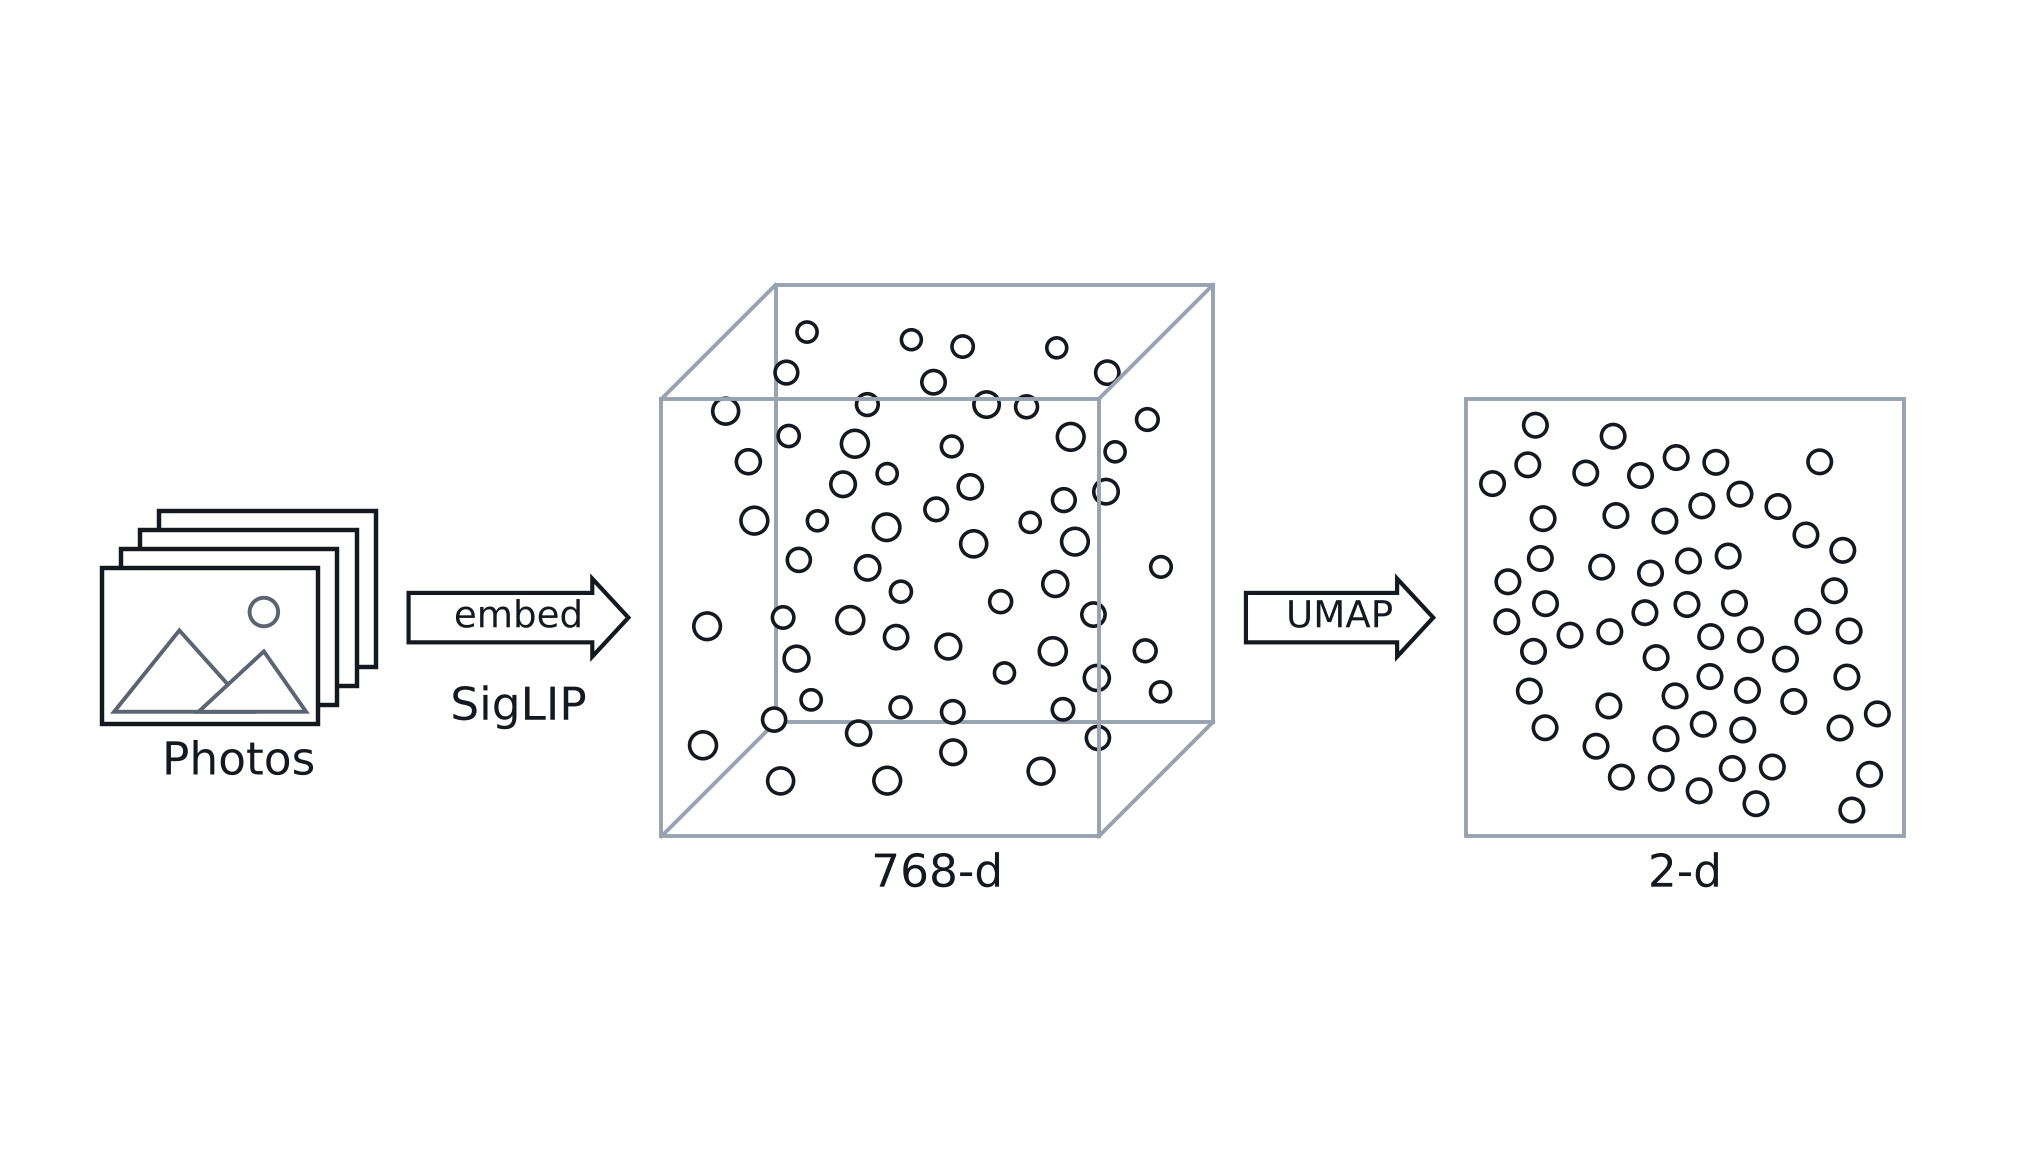
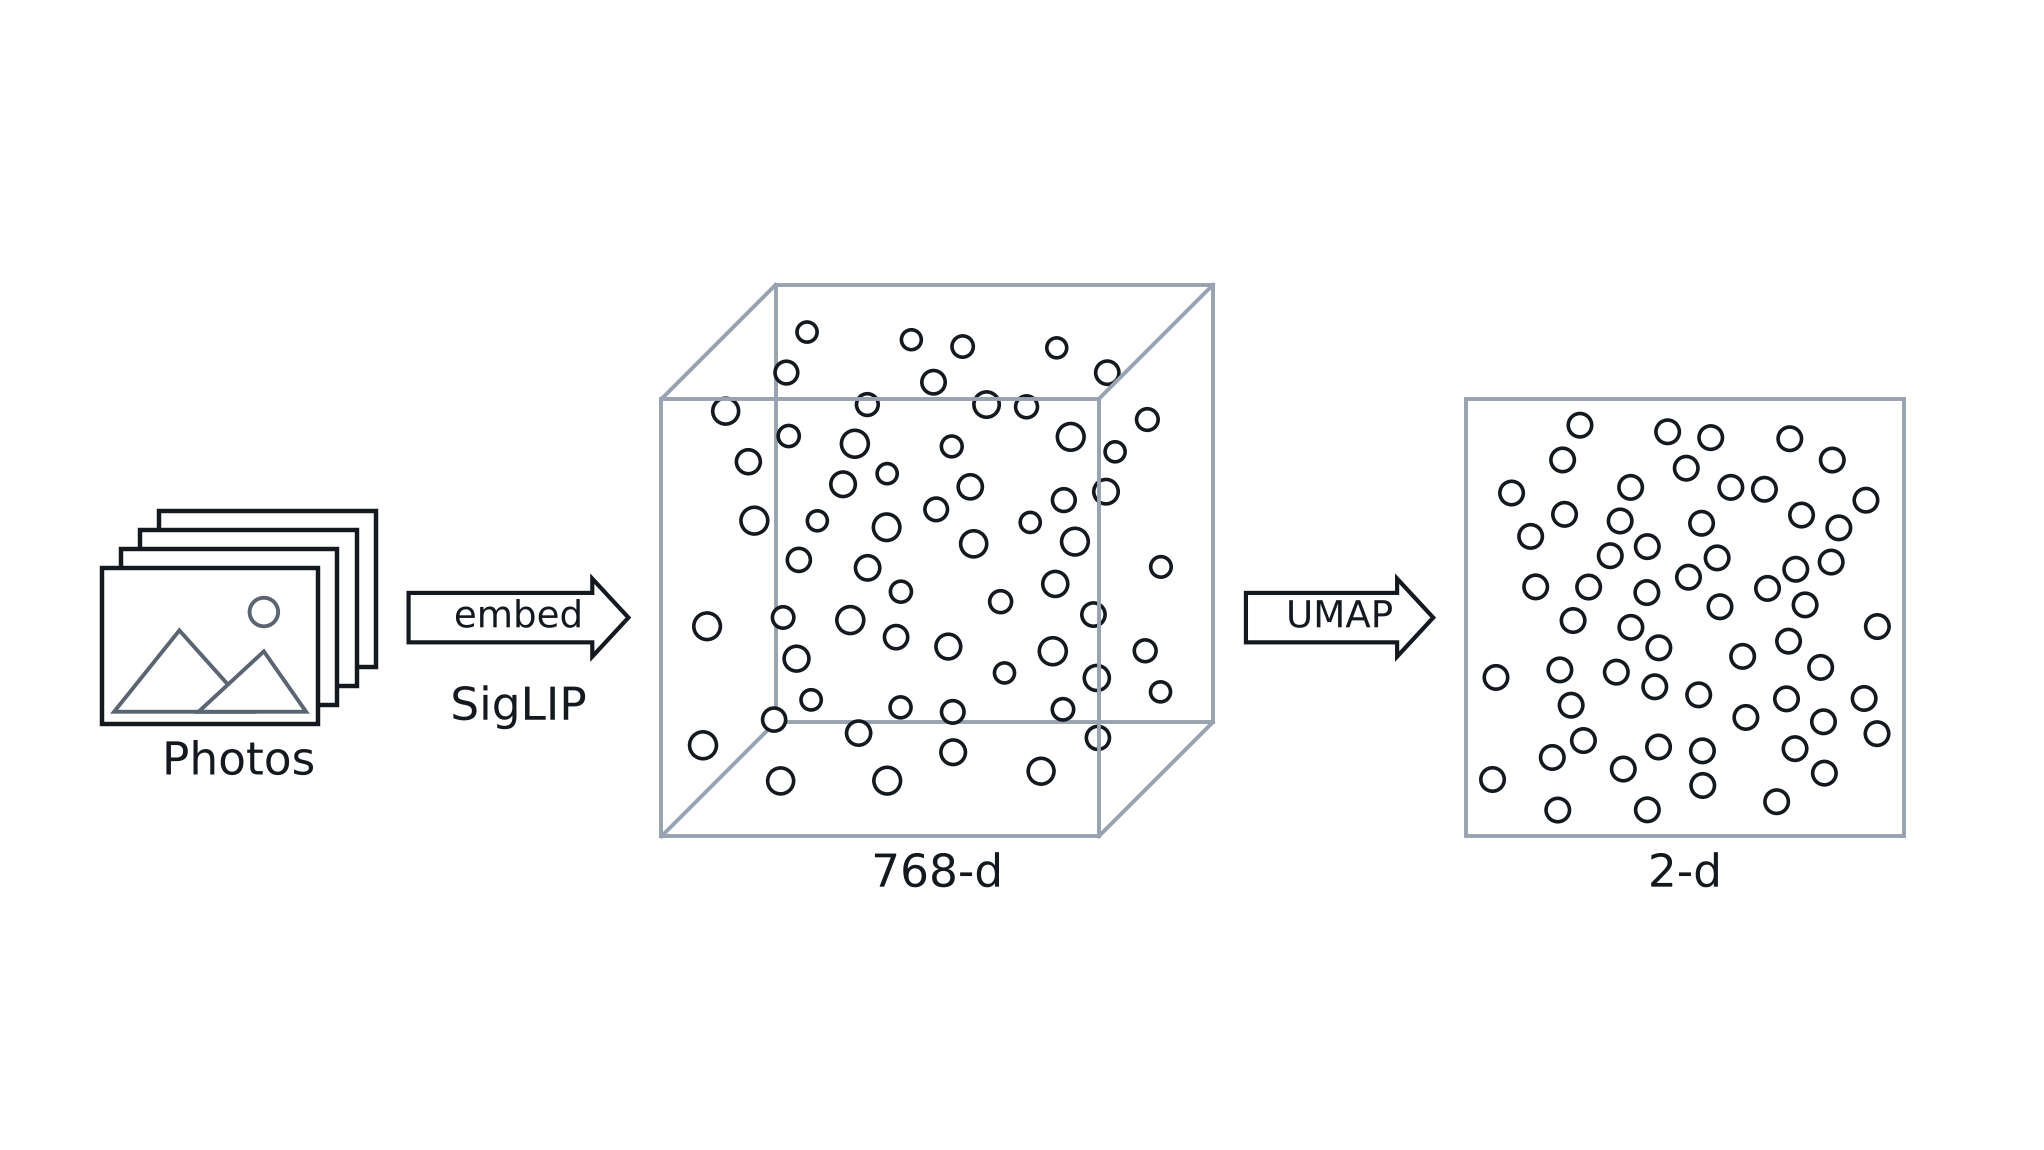
slides: Squaring the Cube flattens the cube straight (#5132)
The square now holds the cube's own dots in the pattern the cube draws them,
squashed along the line of sight, so the room sees at a glance that the 2-d
came from the 768-d (owner). A real UMAP keeps neighbours rather than a view;
the slide paints the picture rather than the method.

Claude-Session: https://claude.ai/code/session_0165HJKSieM6ooCBfgAquuj8

Changed region(s): [[0.7089, 0.3652, 0.9247, 0.7], [0.7089, 0.6696, 0.7397, 0.7]]

diff --git a/slides/figs/src/make-intro-figs.py b/slides/figs/src/make-intro-figs.py
@@ -1947,7 +1947,7 @@ def _embed_flow_stage(stage: int) -> plt.Figure:
 # ──────────────────────────────────────────────────────────────────────────────
 
 #: Embed-time Stories' second page, with a second arrow out of the cube: UMAP,
-#: into a flat square holding the same dots (owner, #5132). Three objects and two
+#: into a flat square holding the same dots in the same pattern (owner, #5132). Three objects and two
 #: arrows do not fit across the slide at Embed-time Stories' scale, so the
 #: drawing is that one at `UMAP_SCALE` of its size, type and all: the canvas
 #: spans more units, and every point size is scaled to match (23px for the word
@@ -1959,8 +1959,7 @@ UMAP_CANVAS = (CANVAS[0] / UMAP_SCALE, CANVAS[1] / UMAP_SCALE)
 UMAP_ROW_Y = 5.6
 UMAP_LEFT = 1.07
 UMAP_SQUARE = CUBE_SIDE
-#: The flattening's own seed, and the room the square leaves round its dots.
-UMAP_SEED = 7
+#: The room the square leaves round its dots.
 UMAP_PAD = 0.06
 #: The word inside the second arrow: the method's name, which is what the room
 #: will meet again under Browse.
@@ -1975,45 +1974,22 @@ def _umap_arrow_len(label: str) -> float:
     return width / (UNIT_PT * UMAP_SCALE) + 2 * FLOW_HEAD_L
 
 
-@functools.lru_cache(maxsize=1)
 def _umap_flat() -> np.ndarray:
-    """The cube's dots, flattened by a real UMAP and spread to fill a unit square without touching.
+    """The cube's dots, flattened straight: each where the cube drawing puts it, fitted to a unit square.
 
-    UMAP keeps neighbours rather than distances, so the square is not a view of
-    the cube from any side: it is what the map is made of. The fit is then
-    rescaled into the square and relaxed until no two dots overlap on the page,
-    which moves each only as far as the drawing needs.
+    The square is the cube squashed flat along the line of sight, so its dots
+    sit in the same pattern the cube shows and the room sees at a glance where
+    they came from (owner, #5132). A real UMAP keeps neighbours rather than a
+    view, and can move things; this paints the picture rather than the method.
+    The cube's dots are spaced on their projection (`FLOW_APART`), so the
+    flattened ones cannot touch either; the assertion keeps that true.
     """
-    import umap  # noqa: PLC0415
-
-    flat = umap.UMAP(n_neighbors=12, min_dist=0.5, random_state=UMAP_SEED).fit_transform(_flow_field_3d())
-    # UMAP lays a cloud with no structure out as a disc; stretch each point
-    # radially so the disc's edge meets the square's, which moves no dot past
-    # a neighbour, then fit the result to the unit square.
-    flat = flat - flat.mean(axis=0)
-    radius = np.hypot(flat[:, 0], flat[:, 1])
-    flat = flat / radius.max()
-    stretch = 1.0 / np.maximum(np.abs(flat[:, 0]), np.abs(flat[:, 1])).clip(1e-9) * np.hypot(flat[:, 0], flat[:, 1])
-    flat = flat * stretch[:, None]
+    flat = np.array([_cube_project(p) for p in _flow_field_3d()])
     flat = (flat - flat.min(axis=0)) / (flat.max(axis=0) - flat.min(axis=0))
     flat = UMAP_PAD + flat * (1 - 2 * UMAP_PAD)
-    apart = FLOW_APART / UMAP_SQUARE
-    for _ in range(400):
-        moved = False
-        for i in range(len(flat)):
-            for j in range(i + 1, len(flat)):
-                d = flat[j] - flat[i]
-                gap = float(np.hypot(*d))
-                if gap < apart:
-                    push = (apart - gap) / 2 * (d / gap if gap else np.array([1.0, 0.0]))
-                    flat[i] -= push
-                    flat[j] += push
-                    moved = True
-        flat = np.clip(flat, UMAP_PAD, 1 - UMAP_PAD)
-        if not moved:
-            break
     gaps = [np.hypot(*(flat[i] - flat[j])) for i in range(len(flat)) for j in range(i + 1, len(flat))]
-    assert min(gaps) >= apart * 0.98, "two flattened dots still touch"
+    radius = FLOW_R * (1.0 - FLOW_DEPTH_SHRINK * 0.5)
+    assert min(gaps) * UMAP_SQUARE > 2 * radius + 0.02, "two flattened dots touch"
     return flat
 
 
@@ -2021,7 +1997,8 @@ def umap_flow_fig() -> None:
     """Photographs into the cube, as Embed-time Stories drew them, and then UMAP out of it, into a square.
 
     Two pages: the cube as Embed-time Stories' second page left it; then the
-    second arrow and the square, the same sixty dots laid flat.
+    second arrow and the square, the same sixty dots squashed flat
+    (`_umap_flat`).
     """
     for stage in range(1, UMAP_STAGES):
         save(_umap_flow_stage(stage), OUT, f"umap-flow.build{stage}.webp", column=FULL_BLEED, tight=False)
